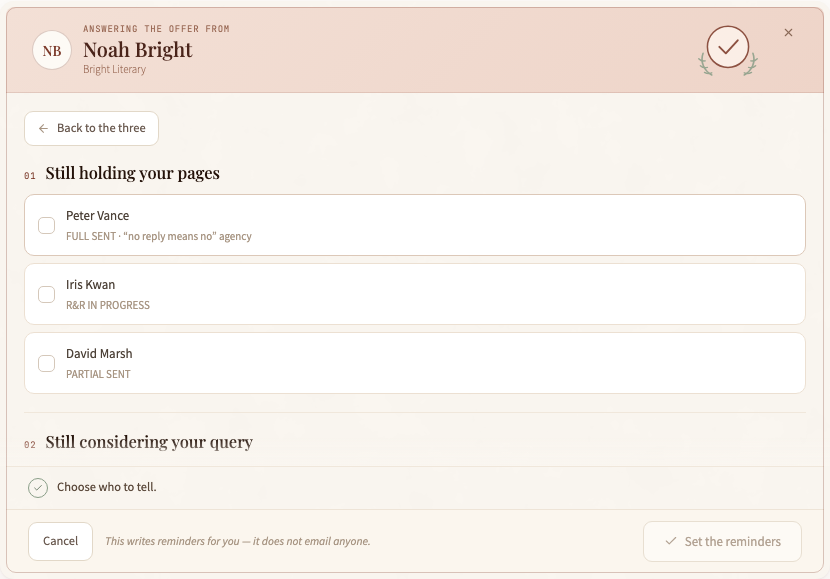
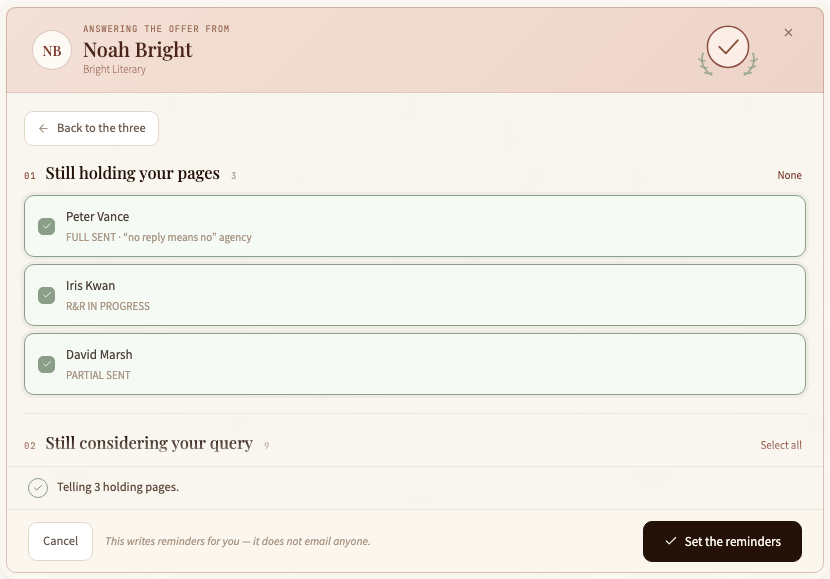
(A) two groups, two affordances, two defaults
Holding your pages opens TICKED; queried only opens UNTICKED. Both wrong defaults are wrong in their
own way and the comment says which: pre-ticking all twelve writes nine reminders the writer never
chose, and pre-ticking none makes them do work the app already knows the answer to.

Each group header carries its own count and one toggle. The toggle is adaptive — all ticked reads
"None", anything else reads "Select all" — which is why the two groups open showing different words
without either being hard-coded.

The summary states both numbers: "Telling 3 holding pages and 9 queried", degrading to one clause
where only one group is chosen and to "Choose who to tell." where neither is. A single total would
have hidden the thing that actually matters — whether the three holding your pages are in it.

⚠ EVERY ROW IS SEEDED INTO THE SELECTION MAP, ticked or not, and that is not incidental. An absent
key and a `false` key look identical to `canCommit`, but only a present one lets a group toggle know
the row exists — a "Select all" that skipped unseeded rows would tick some of a group and report all
of it. Locked.

⚠ AND THE SPLIT IS CARRIED IN THE DRAFT (`notifyHolding`) rather than threaded down to the footer.
The alternative gave two components two chances to disagree about who is in which group, which is
the same shape as every two-derivation fault in this codebase.

Walked on dev: 3 holding pre-ticked, 9 queried not, summary "Telling 3 holding pages.", commit
[…]

diff --git a/src/lib/paneJourney.test.ts b/src/lib/paneJourney.test.ts
@@ -5,7 +5,7 @@
  * The in-pane journey's pure model (Item 9, Phase 2).
  */
 import { describe, it, expect } from "vitest";
-import { openSend, sendSummary, canCommitSend, canCommit, whenMode, ymdLocal, shortDay, SEND_METHODS, JOURNEY_STEPS, JOURNEY_PRELINE, JOURNEY_ACT, JOURNEY_HINT, journeySummary, checkBackLabel, CLOSE_REASON_COPY, OFFER_BRANCHES, OFFER_ACT, OFFER_HINT, canCommitOffer, offerSummary } from "./paneJourney";
+import { openSend, sendSummary, canCommitSend, canCommit, whenMode, ymdLocal, shortDay, SEND_METHODS, JOURNEY_STEPS, JOURNEY_PRELINE, JOURNEY_ACT, JOURNEY_HINT, journeySummary, checkBackLabel, CLOSE_REASON_COPY, OFFER_BRANCHES, OFFER_ACT, OFFER_HINT, canCommitOffer, offerSummary, seedNotify } from "./paneJourney";
 import { CLOSE_REASONS } from "./todoJourneys";
 
 /* ⚠ A FIXED CLOCK, PASSED IN. Every function here takes `now` rather than reading it, so the tests
@@ -242,15 +242,55 @@ describe("⚠ THE OFFER IS A BRANCH, NOT A STACK", () => {
     expect(offerSummary({ ...open(), branch: "decide", decision: "declined" }))
       .toBe("Recording that you declined. The querying continues.");
     expect(offerSummary({ ...open(), branch: "notify" })).toBe("Choose who to tell.");
-    expect(offerSummary({ ...open(), branch: "notify", notifySel: { a: true, b: true } }))
-      .toBe("Writing 2 reminders to tell the others.");
-    expect(offerSummary({ ...open(), branch: "notify", notifySel: { a: true } }))
-      .toBe("Writing 1 reminder to tell the others.");
+    /* the two-number form is asserted in its own describe below — this case only pins that the
+       branch summarises at all and says what is missing when nothing is chosen */
     expect(offerSummary({ ...open(), branch: "time" })).toBe("Choose a day to come back to it.");
   });
 
   it("⚠ AND THE BAND DOES NOT CHANGE UNDER THE WRITER WHEN THEY PICK A BRANCH", () => {
     /* one pre-line for the whole journey: whichever branch you take, you are answering an offer */
     expect(JOURNEY_PRELINE.offer).toBe("Answering the offer from");
+  });
+});
+
+describe("⚠ THE TWO NOTIFY GROUPS OPEN DIFFERENTLY, because the courtesy differs", () => {
+  const HOLD = ["q-full", "q-rr", "q-partial"];
+  const QUERIED = ["q1", "q2", "q3", "q4", "q5", "q6", "q7", "q8", "q9"];
+  const open = () => openSend([], undefined, NOW, HOLD, QUERIED);
+
+  it("holding opens TICKED and queried opens UNTICKED", () => {
+    /* pre-ticking all twelve writes nine reminders the writer never chose; pre-ticking none makes
+       them do work the app already knows the answer to */
+    const v = open();
+    for (const id of HOLD) expect(v.notifySel[id], id).toBe(true);
+    for (const id of QUERIED) expect(v.notifySel[id], id).toBe(false);
+  });
+
+  it("⚠ EVERY ROW IS PRESENT IN THE SELECTION MAP, ticked or not", () => {
+    /* an absent key and a `false` key look the same to `canCommit`, but only the present one lets a
+       group toggle know the row exists — a "Select all" that skipped unseeded rows would tick some
+       of a group and report all of it */
+    expect(Object.keys(open().notifySel).sort()).toEqual([...HOLD, ...QUERIED].sort());
+  });
+
+  it("the draft remembers which are holding, so the summary can state both numbers", () => {
+    expect(open().notifyHolding).toEqual(HOLD);
+  });
+
+  it("⚠ THE SUMMARY STATES BOTH NUMBERS — twelve rows never have to be read", () => {
+    const v = { ...open(), branch: "offer-notify" as never };
+    const notify = { ...open(), branch: "notify" as const };
+    expect(offerSummary(notify)).toBe("Telling 3 holding pages.");
+    const all = { ...notify, notifySel: Object.fromEntries([...HOLD, ...QUERIED].map((id) => [id, true])) };
+    expect(offerSummary(all)).toBe("Telling 3 holding pages and 9 queried.");
+    const onlyQueried = { ...notify, notifySel: Object.fromEntries([...HOLD.map((id) => [id, false]), ...QUERIED.map((id) => [id, true])]) };
+    expect(offerSummary(onlyQueried)).toBe("Telling 9 queried.");
+    const none = { ...notify, notifySel: Object.fromEntries([...HOLD, ...QUERIED].map((id) => [id, false])) };
+    expect(offerSummary(none)).toBe("Choose who to tell.");
+    void v;
+  });
+
+  it("seedNotify with no groups is an empty selection, not a crash", () => {
+    expect(seedNotify()).toEqual({ notifySel: {}, notifyHolding: [] });
   });
 });

diff --git a/src/lib/paneJourney.ts b/src/lib/paneJourney.ts
@@ -132,6 +132,13 @@ export interface JourneySendValues {
   remindDate: string;
   /** offer · notify — which agents to write a reminder for, by query id. */
   notifySel: Record<string, boolean>;
+  /**
+   * ⚠ WHICH OF THOSE ARE HOLDING PAGES — carried in the draft so the SUMMARY can state both
+   * numbers without re-deriving the split. The alternative was threading the holder groups down to
+   * the footer, which would have given two components two chances to disagree about who is in
+   * which group.
+   */
+  notifyHolding: string[];
 }
 
 export type SendMethod = "Email" | "Agency portal" | "Post";
@@ -157,7 +164,14 @@ export function ymdLocal(d: Date): string {
  * ⚠ AND THE METHOD OPENS ON THE QUERY'S OWN, where the record holds one. Defaulting to Email when
  * the record says Post would be the app quietly overwriting a fact it already had.
  */
-export function openSend(materials: string[], queryMethod: string | undefined, now: Date): JourneySendValues {
+export function openSend(
+  materials: string[],
+  queryMethod: string | undefined,
+  now: Date,
+  /** offer only — the two notify groups, so the seed can differ by group (see `seedNotify`). */
+  holdingQueryIds: string[] = [],
+  queriedQueryIds: string[] = [],
+): JourneySendValues {
   const m = SEND_METHODS.find((x) => x.toLowerCase() === String(queryMethod ?? "").toLowerCase());
   return {
     materials: [...materials], also: "", method: m ?? "Email", sentDate: ymdLocal(now), note: "",
@@ -174,8 +188,26 @@ export function openSend(materials: string[], queryMethod: string | undefined, n
     branch: null,
     decision: null,
     remindDate: "",
-    notifySel: {},
+    ...seedNotify(holdingQueryIds, queriedQueryIds),
   };
+}
+
+/**
+ * ⚠ THE TWO GROUPS OPEN DIFFERENTLY, BECAUSE THE COURTESY DIFFERS. An agent reading your
+ * manuscript right now needs telling; an agent holding a query letter is a courtesy the writer may
+ * or may not extend today.
+ *
+ * ⚠ AND BOTH WRONG DEFAULTS ARE WRONG IN THEIR OWN WAY. Pre-ticking all twelve makes the second
+ * decision for the writer — it would write nine reminders they never chose. Pre-ticking none makes
+ * them do work the app already knows the answer to: of course the three holding your pages should
+ * hear. So: holding pre-ticked, queried not.
+ */
+export function seedNotify(holdingQueryIds: string[] = [], queriedQueryIds: string[] = []):
+  { notifySel: Record<string, boolean>; notifyHolding: string[] } {
+  const notifySel: Record<string, boolean> = {};
+  for (const id of holdingQueryIds) notifySel[id] = true;
+  for (const id of queriedQueryIds) notifySel[id] = false;
+  return { notifySel, notifyHolding: [...holdingQueryIds] };
 }
 
 /** Which of the three "when" segments a date corresponds to — `other` for anything else. */
@@ -223,8 +255,15 @@ export function canCommitSend(v: JourneySendValues): boolean {
 /** The sentence about to be committed, per branch — and nothing at all on the selector. */
 export function offerSummary(v: JourneySendValues): string {
   if (v.branch === "notify") {
-    const n = Object.values(v.notifySel).filter(Boolean).length;
-    return n ? `Writing ${n} reminder${n === 1 ? "" : "s"} to tell the others.` : "Choose who to tell.";
+    /* ⚠ BOTH NUMBERS, SO TWELVE ROWS NEVER HAVE TO BE READ TO KNOW WHAT WILL HAPPEN. A single
+       total would hide the thing that matters — whether the three holding your pages are in it. */
+    const holding = v.notifyHolding.filter((id) => v.notifySel[id]).length;
+    const queried = Object.entries(v.notifySel).filter(([id, on]) => on && !v.notifyHolding.includes(id)).length;
+    if (!holding && !queried) return "Choose who to tell.";
+    const parts: string[] = [];
+    if (holding) parts.push(`${holding} holding pages`);
+    if (queried) parts.push(`${queried} queried`);
+    return `Telling ${parts.join(" and ")}.`;
   }
   if (v.branch === "decide") {
     if (v.decision === "accepted") return "Recording that you accepted. Your other queries stay open.";

diff --git a/src/components/todo/PaneJourney.tsx b/src/components/todo/PaneJourney.tsx
@@ -98,6 +98,22 @@ export const PaneJourney: React.FC<PaneJourneyProps> = ({ materials, ask, kind, 
   const toggleNotify = (queryId: string) =>
     set({ notifySel: { ...value.notifySel, [queryId]: !value.notifySel[queryId] } });
 
+  /**
+   * ⚠ ONE TOGGLE PER GROUP, AND IT SAYS WHAT IT WILL DO. All ticked → "None"; anything else →
+   * "Select all". That is why the two groups open showing different words without either being
+   * hard-coded: holding opens fully ticked, queried opens empty.
+   */
+  const groupToggle = (rows: HolderRow[]) => {
+    const all = rows.length > 0 && rows.every((r) => value.notifySel[r.queryId]);
+    return (
+      <button type="button" className="pj-grouptog" onClick={() => {
+        const next = { ...value.notifySel };
+        for (const r of rows) next[r.queryId] = !all;
+        set({ notifySel: next });
+      }}>{all ? "None" : "Select all"}</button>
+    );
+  };
+
   const holderPick = (h: HolderRow) => {
     const on = !!value.notifySel[h.queryId];
     return (
@@ -135,7 +151,11 @@ export const PaneJourney: React.FC<PaneJourneyProps> = ({ materials, ask, kind, 
               and it is the whole reason this branch is the most consequential of the three. */}
           {holding.length > 0 && (
             <div className="pj-step">
-              <div className="pj-n"><span className="i">01</span><h4>Still holding your pages</h4></div>
+              <div className="pj-n">
+                <span className="i">01</span><h4>Still holding your pages</h4>
+                <span className="pj-count">{holding.length}</span>
+                {groupToggle(holding)}
+              </div>
               <div className="pj-opts">{holding.map(holderPick)}</div>
             </div>
           )}
@@ -143,6 +163,8 @@ export const PaneJourney: React.FC<PaneJourneyProps> = ({ materials, ask, kind, 
             <div className="pj-step">
               <div className="pj-n">
                 <span className="i">{holding.length ? "02" : "01"}</span><h4>Still considering your query</h4>
+                <span className="pj-count">{queried.length}</span>
+                {groupToggle(queried)}
               </div>
               <div className="pj-opts">{queried.map(holderPick)}</div>
             </div>

diff --git a/src/components/todo/TodoDock.tsx b/src/components/todo/TodoDock.tsx
@@ -704,7 +704,16 @@ export const TodoDock: React.FC<TodoDockProps> = ({
                 /* ⚠ THE JOURNEY OPENS IN THE PANE WHERE ONE EXISTS FOR THIS BUCKET; everything else
                    still opens the takeover. That is what lets the buckets move one at a time. */
                 if (onCommitSend) {
-                  setDraft(openSend((materials?.(card) ?? []).map((m) => m.label), queryMethod?.(card), new Date()));
+                  /* ⚠ THE OFFER'S NOTIFY GROUPS SEED THE DRAFT — the two open differently, so the
+                     opener needs the split rather than a flat list (see `seedNotify`). */
+                  const h = journeyHolders?.(card);
+                  setDraft(openSend(
+                    (materials?.(card) ?? []).map((m) => m.label),
+                    queryMethod?.(card),
+                    new Date(),
+                    (h?.holding ?? []).map((r) => r.queryId),
+                    (h?.queried ?? []).map((r) => r.queryId),
+                  ));
                   return;
                 }
                 onPrimary(card);

diff --git a/src/components/todo/paneJourney.css b/src/components/todo/paneJourney.css
@@ -148,3 +148,15 @@
 .pj-branchtx { min-width: 0; }
 .pj-branchtx b { display: block; font-size: 13.5px; font-weight: 600; color: #241209; }
 .pj-branchtx span { display: block; font-size: 11.5px; color: #a89684; margin-top: 3px; line-height: 1.5; }
+
+/* the group's own count and its one toggle — both in the step header, so the two groups' different
+   defaults are visible without reading either list */
+.pj-count {
+  font-family: "JetBrains Mono", ui-monospace, monospace;
+  font-size: 9px; letter-spacing: .1em; color: #b3a496; margin-left: 2px;
+}
+.pj-grouptog {
+  margin-left: auto; cursor: pointer; font: inherit; font-size: 11px; color: #7c3a2a;
+  background: none; border: 0; padding: 2px 4px; border-radius: 6px;
+}
+.pj-grouptog:hover { background: #f5e2da; }
